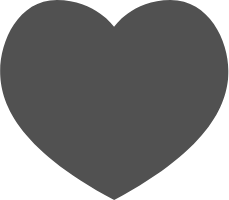
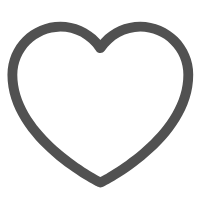
修改样式

diff --git a/pages/topic_detail/topic_detail.js b/pages/topic_detail/topic_detail.js
@@ -43,10 +43,21 @@ Page({
         praiseNumber: topic.praise_number,
         viewNumber: topic.view_number,
         commentNumber: topic.comment_number,
-        comments:topic.comments
+        comments:topic.comments,
+        objId:topic.id
       });
 
     });
+  },
+
+  openCommentTopic:function(e){
+    let id = e.currentTarget.dataset.id;
+    console.log('id是什么：'+id);
+
+    wx.navigateTo({
+      url: '/pages/topic_comment/topic_comment?id=' + id
+    })
+
   },
 
   /**
@@ -156,6 +167,11 @@ Page({
    * 评论
    */
   postComment: function (e) {
+
+    wx.showLoading({
+      title: '发送中',
+    });
+
     let objType = this.data.objType;
     let objId = this.data.objId;
     let content = this.data.content;
@@ -170,6 +186,8 @@ Page({
       type: objType,
       ref_comment_id: refCommentId
     }, function (res) {
+
+      wx.hideLoading();
 
       console.log('返回的评论内容');
       console.log(res);

diff --git a/pages/topic_comment/topic_comment.js b/pages/topic_comment/topic_comment.js
@@ -12,8 +12,13 @@ Page({
     uploadToken: null,
     attachments: [],
     textContent: '',
+    objId:''
   },
-  onLoad: function () {
+  onLoad: function (options) {
+    let id = options.id;
+    this.setData({
+      objId: id
+    });
 
   },
   onShow: function () {
@@ -29,6 +34,9 @@ Page({
   post: function () {
     let content = this.data.textContent;
     let attachments = this.data.attachments;
+    let id = this.data.objId;
+
+    console.log('对象id：'+id);
 
     console.log('图片：' + attachments);
     console.log('评论内容：' + content);
@@ -46,9 +54,11 @@ Page({
     app.http('post', '/comment', {
       content: content,
       attachments: attachments,
-      obj_id:4,
-      type:5
+      type:5,
+      obj_id: id,
     }, res => {
+
+      wx.navigateBack({ comeBack: true });
       console.log(res);
     });
 

diff --git a/pages/index/index.js b/pages/index/index.js
@@ -569,6 +569,10 @@ Page({
    */
   sendComment: function (e) {
 
+    wx.showLoading({
+      title: '发送中',
+    });
+
     let _this = this;
 
     let content = this.data.commentContent;
@@ -594,6 +598,8 @@ Page({
       type: type,
       ref_comment_id: refcommentId
     }, function (res) {
+
+      wx.hideLoading();
 
       _this.setData({
         commentContent: '',
@@ -630,7 +636,6 @@ Page({
    * 回复别人
    */
   commentOtherComment: function (e) {
-
     console.log(e.currentTarget.dataset);
     let objId = e.currentTarget.dataset.objid;
     let type = e.currentTarget.dataset.objtype;

diff --git a/pages/comment_sale/comment_sale.js b/pages/comment_sale/comment_sale.js
@@ -144,6 +144,11 @@ Page({
    * 评论
    */
   postComment:function(e){
+
+    wx.showLoading({
+      title: '发送中',
+    });
+
     let objType = this.data.objType;
     let objId = this.data.objId;
     let content = this.data.content;
@@ -158,6 +163,8 @@ Page({
       type: objType,
       ref_comment_id:refCommentId
     }, function (res) {
+
+      wx.hideLoading();
 
       console.log('返回的评论内容');
       console.log(res);

diff --git a/pages/letter/letter.js b/pages/letter/letter.js
@@ -186,6 +186,11 @@ Page({
    * 发送消息
    */
   send:function(){
+
+    wx.showLoading({
+      title: '发送中',
+    });
+
     let friendId = this.data.friendId;
     let content = this.data.content;
     let attachments = this.data.imageArray;
@@ -208,6 +213,9 @@ Page({
        attachments: attachments
      }, 
      function (res) {
+
+       wx.hideLoading();
+
        _this.setData({
          content:''
        })
